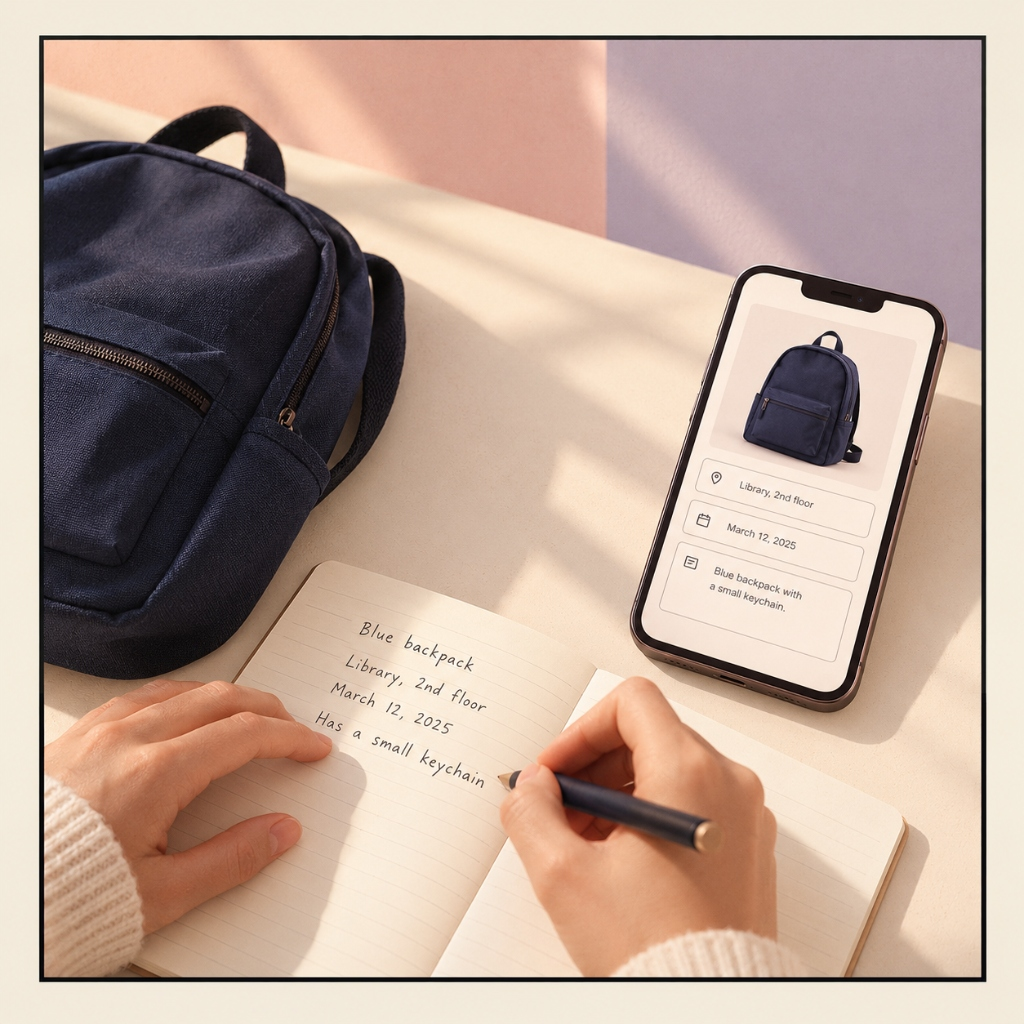
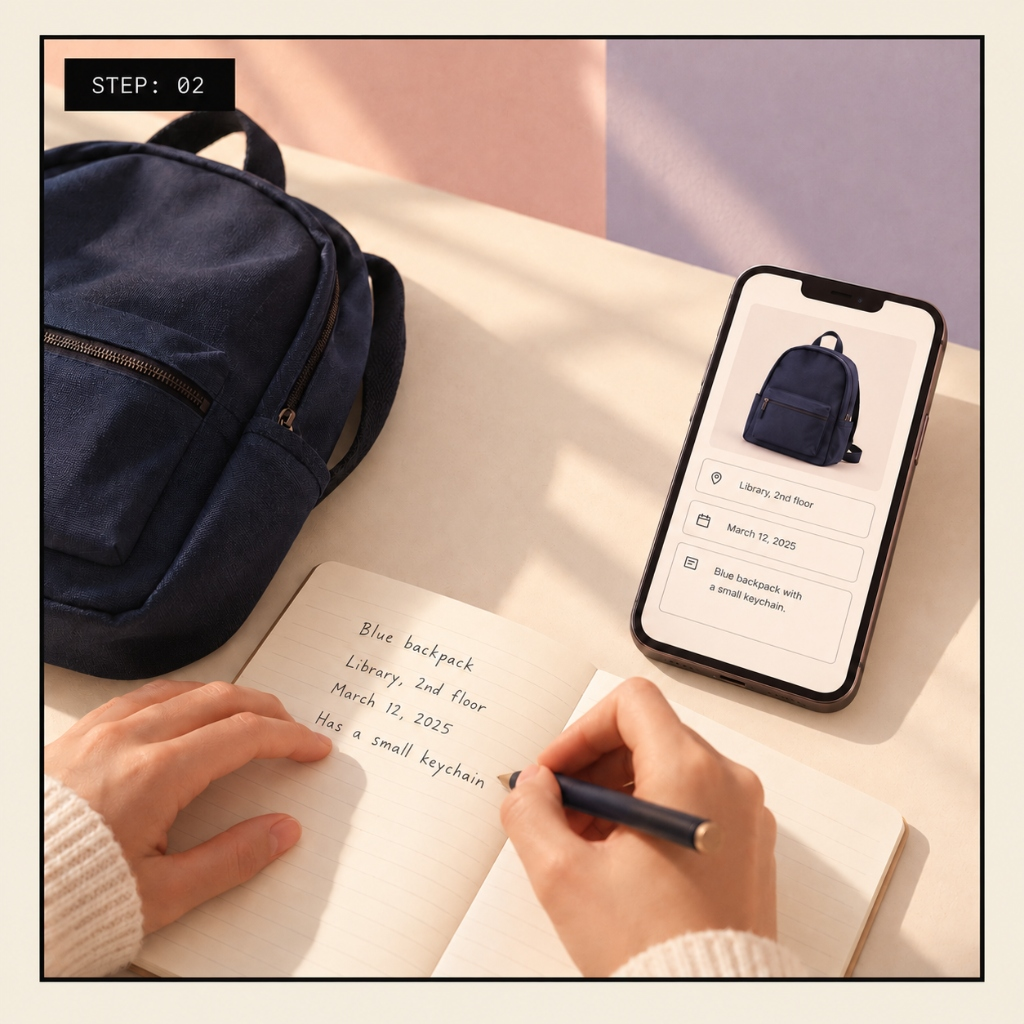
fix: update workflow step 2 image and restore process HUD tag

diff --git a/back2u-ui-lab/src/components/HowItWorksSection.tsx b/back2u-ui-lab/src/components/HowItWorksSection.tsx
@@ -143,7 +143,10 @@ export default function HowItWorksSection() {
                   />
                 ))}
                 
-
+                {/* Floating HUD Tags */}
+                <div className="absolute bottom-3 right-3 bg-[#FBF9F5] px-2.5 py-1 font-['Space_Mono'] text-[10px] text-[var(--color-retro-charcoal)] border border-[var(--color-retro-border)] shadow-[1px_1px_0px_#1A1A1A] tracking-widest uppercase">
+                  PROCESS: {steps[activeStep].badge}
+                </div>
               </div>
               
               <div className="mt-4 p-3 bg-[#FBF9F5] border border-[var(--color-retro-border)]">
